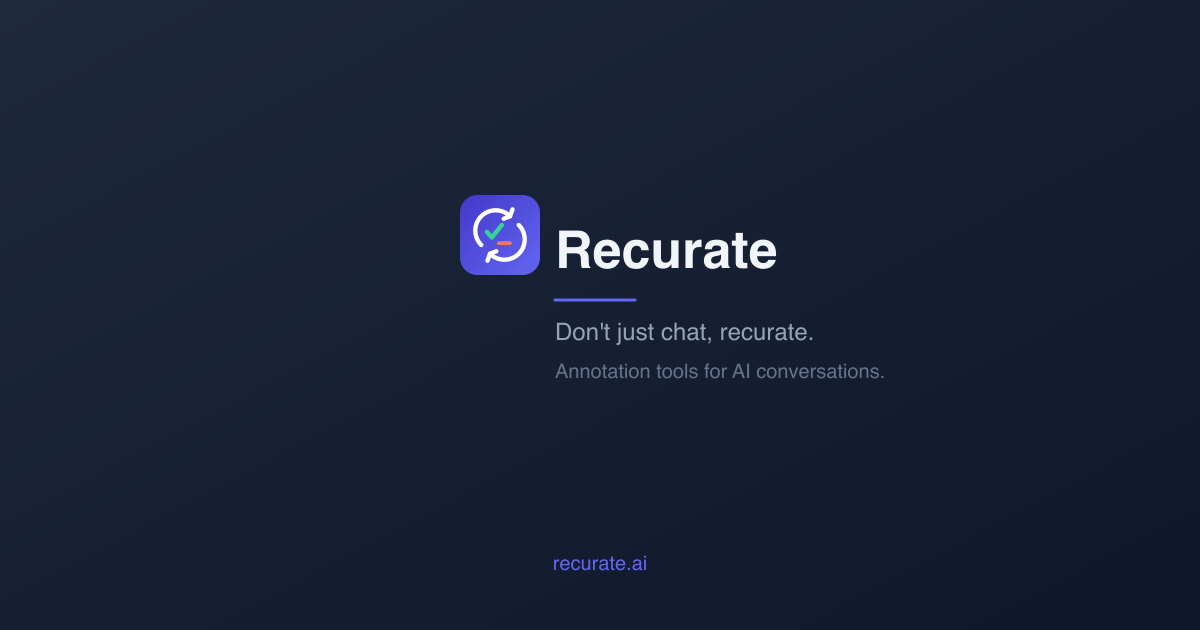
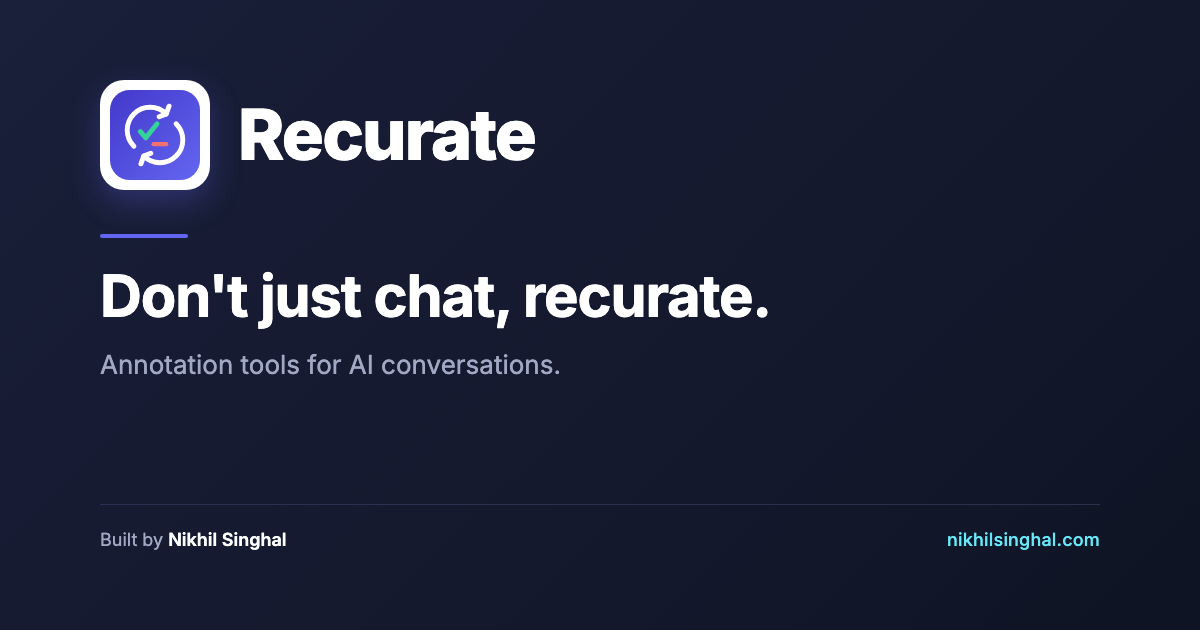
SEO + identity: full schema graph, GA4, hub link, OG card refresh
Fourth product-tier audit in the SEO findability arc (WI#286 B2).
Companion to audits/recurate-ai.md in nikhilsinghal-site (commit
afa583a). Spec B applies: SoftwareApplication primary, Person
referenced by @id from creator, brand leads visually with subtle
Nikhil attribution.

Umbrella decision: recurate.ai marketing + app.recurate.ai (DO,
separate repo) under one Recurate brand. SoftwareApplication.url
points at app.recurate.ai. GA cross-domain config spans both
(admin work for Nikhil).

site_description rewrite. Old 65 chars to 156 chars covering value
prop + Nikhil credit. Final: "Recurate: annotation tools for AI
conversations. Highlight, strikethrough, dig deeper, verify.
Chrome and VS Code extensions. By Nikhil Singhal."

GA4 wired via mkdocs-material native extra.analytics block with
measurement ID G-YB6PP1GEQP (the new Recurate property under
nikhilsinghal.com Analytics account, created by Nikhil).

Hub back-link added as a globe icon in extra.social. Footer now
shows nikhilsinghal.com globe alongside the existing GitHub plus
LinkedIn icons. Surfaces on every page.

overrides/main.html rewritten. Existing slim 14-line override
extended into a full pattern matching ATC plus hipcharter. Now
includes: complete Twitter Card (was missing title plus description
plus site), dynamic og:type via Jinja conditional on page.meta.date
(article on blog posts, website elsewhere), author meta, keywords,
and the JSON-LD identity graph site-wide.
[…]

diff --git a/docs/overrides/main.html b/docs/overrides/main.html
@@ -1,14 +1,156 @@
 {% extends "base.html" %}
 
 {% block extrahead %}
-  <meta property="og:type" content="website" />
-  <meta property="og:url" content="{{ page.canonical_url }}" />
-  <meta property="og:title" content="{{ page.title }} - Recurate" />
-  <meta property="og:description" content="{{ config.site_description }}" />
-  <meta property="og:image" content="https://recurate.ai/assets/images/recurate-social-card.png" />
-  <meta property="og:image:type" content="image/png" />
-  <meta property="og:image:width" content="1200" />
-  <meta property="og:image:height" content="630" />
-  <meta name="twitter:card" content="summary_large_image" />
-  <meta name="twitter:image" content="https://recurate.ai/assets/images/recurate-social-card.png" />
+  {% set og_title = page.meta.title if page and page.meta and page.meta.title else (page.title if page and page.title else config.site_name) %}
+  {% set og_desc = page.meta.description if page and page.meta and page.meta.description else config.site_description %}
+
+  {# Blog post detection: mkdocs-material's blog plugin sets page.meta.date only on actual posts, not aggregation pages #}
+  {% set is_blog_post = page and page.meta and page.meta.date %}
+  {% set og_type = 'article' if is_blog_post else 'website' %}
+
+  {# Per-post hero image where set in frontmatter, otherwise the default social card #}
+  {% set default_image = config.site_url ~ '/assets/images/recurate-social-card.png' %}
+  {% if page and page.meta and page.meta.image %}
+    {% if page.meta.image.startswith('http') %}
+      {% set og_image = page.meta.image %}
+    {% else %}
+      {% set og_image = config.site_url ~ '/' ~ page.meta.image %}
+    {% endif %}
+  {% else %}
+    {% set og_image = default_image %}
+  {% endif %}
+
+  <!-- Open Graph -->
+  <meta property="og:type" content="{{ og_type }}">
+  <meta property="og:site_name" content="{{ config.site_name }}">
+  <meta property="og:title" content="{{ og_title }} - Recurate">
+  <meta property="og:description" content="{{ og_desc }}">
+  {% if page and page.canonical_url %}
+  <meta property="og:url" content="{{ page.canonical_url }}">
+  {% endif %}
+  <meta property="og:image" content="{{ og_image }}">
+  <meta property="og:image:type" content="image/png">
+  <meta property="og:image:width" content="1200">
+  <meta property="og:image:height" content="630">
+
+  <!-- Twitter / X -->
+  <meta name="twitter:card" content="summary_large_image">
+  <meta name="twitter:title" content="{{ og_title }} - Recurate">
+  <meta name="twitter:description" content="{{ og_desc }}">
+  <meta name="twitter:image" content="{{ og_image }}">
+  <meta name="twitter:site" content="@nikhilsinghal">
+
+  <!-- Additional SEO -->
+  <meta name="author" content="Nikhil Singhal">
+  <meta name="keywords" content="Recurate, AI conversations, Chrome extension, annotation tools, highlight, strikethrough, Claude, ChatGPT, Copilot, VS Code">
+
+  <!-- Structured Data: identity graph (SoftwareApplication + Person + WebSite). Person uses the same @id as the canonical hub at nikhilsinghal.com so search engines treat both surfaces as one entity. SoftwareApplication.url points at app.recurate.ai per the umbrella decision. -->
+  {% raw %}
+  <script type="application/ld+json">
+  {
+    "@context": "https://schema.org",
+    "@graph": [
+      {
+        "@type": "SoftwareApplication",
+        "@id": "https://recurate.ai/#software",
+        "name": "Recurate",
+        "applicationCategory": "BrowserApplication",
+        "operatingSystem": "Chrome, VS Code, Web",
+        "url": "https://app.recurate.ai",
+        "image": "https://recurate.ai/assets/images/recurate-social-card.png",
+        "description": "Recurate: annotation tools for AI conversations. Highlight, strikethrough, dig deeper, verify. A suite of Chrome and VS Code extensions for working with Claude, ChatGPT, Copilot, and Gemini.",
+        "featureList": [
+          "Annotator: highlight, strikethrough, dig deeper, verify on AI responses",
+          "Composer: structured input format for AI prompts",
+          "Copier: capture AI conversations as clean markdown or styled HTML",
+          "Connect: coordinate between parallel AI chats with one-click context sharing",
+          "Platform: compare responses across Claude, GPT, Gemini, and Grok side by side"
+        ],
+        "creator": {"@id": "https://nikhilsinghal.com/#person"}
+      },
+      {
+        "@type": "Person",
+        "@id": "https://nikhilsinghal.com/#person",
+        "name": "Nikhil Singhal",
+        "givenName": "Nikhil",
+        "familyName": "Singhal",
+        "jobTitle": "CTO | VP Engineering | AI Practitioner & Governance Strategist",
+        "url": "https://nikhilsinghal.com",
+        "image": "https://nikhilsinghal.com/img/nikhil-singhal-portrait-1200.jpg",
+        "email": "mailto:nikhil@omspark.com",
+        "telephone": "+1-206-226-2722",
+        "address": {
+          "@type": "PostalAddress",
+          "addressLocality": "Seattle",
+          "addressRegion": "WA",
+          "addressCountry": "US"
+        },
+        "sameAs": [
+          "https://www.linkedin.com/in/nikhilsinghal/",
+          "https://github.com/nikhilsi",
+          "https://orcid.org/0009-0003-5449-6830",
+          "https://nikhilsinghal-ai-trust-commons.medium.com/",
+          "https://about.me/nikhil.singhal",
+          "https://x.com/nikhilsinghal",
+          "https://www.youtube.com/@nikhilsinghal",
+          "https://aitrustcommons.org",
+          "https://hipcharter.com",
+          "https://omspark.com"
+        ],
+        "knowsAbout": [
+          "Artificial Intelligence",
+          "AI Governance",
+          "Human-AI Interaction",
+          "Engineering Leadership",
+          "AI Trust Commons",
+          "Human Intelligence Partnership Charter",
+          "Intent Layer",
+          "Model Context Protocol",
+          "Large Language Models",
+          "AI Agents",
+          "AI Memory"
+        ],
+        "alumniOf": [
+          {"@type": "EducationalOrganization", "name": "Harvard University"},
+          {"@type": "EducationalOrganization", "name": "Bangalore University"}
+        ],
+        "worksFor": {
+          "@type": "Organization",
+          "name": "OmSpark LLC",
+          "url": "https://omspark.com"
+        }
+      },
+      {
+        "@type": "WebSite",
+        "@id": "https://recurate.ai/#website",
+        "url": "https://recurate.ai",
+        "name": "Recurate",
+        "about": {"@id": "https://recurate.ai/#software"},
+        "inLanguage": "en"
+      }
+    ]
+  }
+  </script>
+  {% endraw %}
+
+  {% if is_blog_post %}
+  {# BlogPosting schema for blog posts. Author + publisher reference the identity graph by @id. #}
+  {% set post_date = page.meta.date.created if page.meta.date.created is defined else page.meta.date %}
+  {% set post_updated = page.meta.date.updated if page.meta.date.updated is defined else post_date %}
+  <script type="application/ld+json">
+  {
+    "@context": "https://schema.org",
+    "@type": "BlogPosting",
+    "headline": {{ og_title | tojson }},
+    "description": {{ og_desc | tojson }},
+    "image": {{ og_image | tojson }},
+    "datePublished": "{{ post_date }}",
+    "dateModified": "{{ post_updated }}",
+    "author": {"@id": "https://nikhilsinghal.com/#person"},
+    "publisher": {"@id": "https://nikhilsinghal.com/#person"},
+    "mainEntityOfPage": {{ page.canonical_url | tojson }},
+    "inLanguage": "en"
+  }
+  </script>
+  {% endif %}
 {% endblock %}

diff --git a/docs/assets/images/social-card.html b/docs/assets/images/social-card.html
@@ -1,0 +1,111 @@
+<!DOCTYPE html>
+<html lang="en">
+<head>
+    <meta charset="UTF-8">
+    <title>Recurate Social Card</title>
+    <link rel="preconnect" href="https://fonts.googleapis.com">
+    <link rel="preconnect" href="https://fonts.gstatic.com" crossorigin>
+    <link href="https://fonts.googleapis.com/css2?family=Inter:wght@400;500;600;700;800&display=swap" rel="stylesheet">
+    <style>
+        * { margin: 0; padding: 0; box-sizing: border-box; }
+
+        html, body {
+            width: 1200px;
+            height: 630px;
+            overflow: hidden;
+        }
+
+        body {
+            background: linear-gradient(135deg, #1a1f3a 0%, #0f1424 100%);
+            color: #ffffff;
+            font-family: 'Inter', -apple-system, BlinkMacSystemFont, 'Segoe UI', sans-serif;
+            padding: 80px 100px;
+            display: flex;
+            flex-direction: column;
+            justify-content: space-between;
+        }
+
+        .top {
+            display: flex;
+            align-items: center;
+            gap: 28px;
+        }
+
+        .logo {
+            width: 110px;
+            height: 110px;
+            border-radius: 24px;
+            background: white;
+            display: flex;
+            align-items: center;
+            justify-content: center;
+            box-shadow: 0 12px 32px rgba(99, 102, 241, 0.3);
+        }
+
+        .logo img {
+            width: 90px;
+            height: 90px;
+        }
+
+        .brand {
+            font-size: 70px;
+            font-weight: 800;
+            color: #ffffff;
+            letter-spacing: -0.025em;
+            line-height: 1;
+        }
+
+        .accent-rule {
+            width: 88px;
+            height: 4px;
+            background: #6366f1;
+            margin-top: 44px;
+            border-radius: 2px;
+        }
+
+        h1 {
+            font-size: 58px;
+            font-weight: 700;
+            color: #ffffff;
+            margin-top: 28px;
+            letter-spacing: -0.02em;
+            line-height: 1.05;
+        }
+
+        p.tagline {
+            font-size: 26px;
+            color: #a1a8c3;
+            margin-top: 22px;
+            font-weight: 400;
+        }
+
+        .bottom {
+            font-size: 18px;
+            color: #a1a8c3;
+            border-top: 1px solid #2a3050;
+            padding-top: 24px;
+            display: flex;
+            justify-content: space-between;
+            align-items: center;
+        }
+
+        .by .name { color: #ffffff; font-weight: 600; }
+        .hub { color: #67e8f9; font-weight: 500; letter-spacing: 0.01em; }
+    </style>
+</head>
+<body>
+    <div>
+        <div class="top">
+            <div class="logo"><img src="recurate-icon.svg" alt="Recurate"></div>
+            <span class="brand">Recurate</span>
+        </div>
+        <div class="accent-rule"></div>
+        <h1>Don't just chat, recurate.</h1>
+        <p class="tagline">Annotation tools for AI conversations.</p>
+    </div>
+    <div class="bottom">
+        <span class="by">Built by <span class="name">Nikhil Singhal</span></span>
+        <span class="hub">nikhilsinghal.com</span>
+    </div>
+</body>
+</html>
